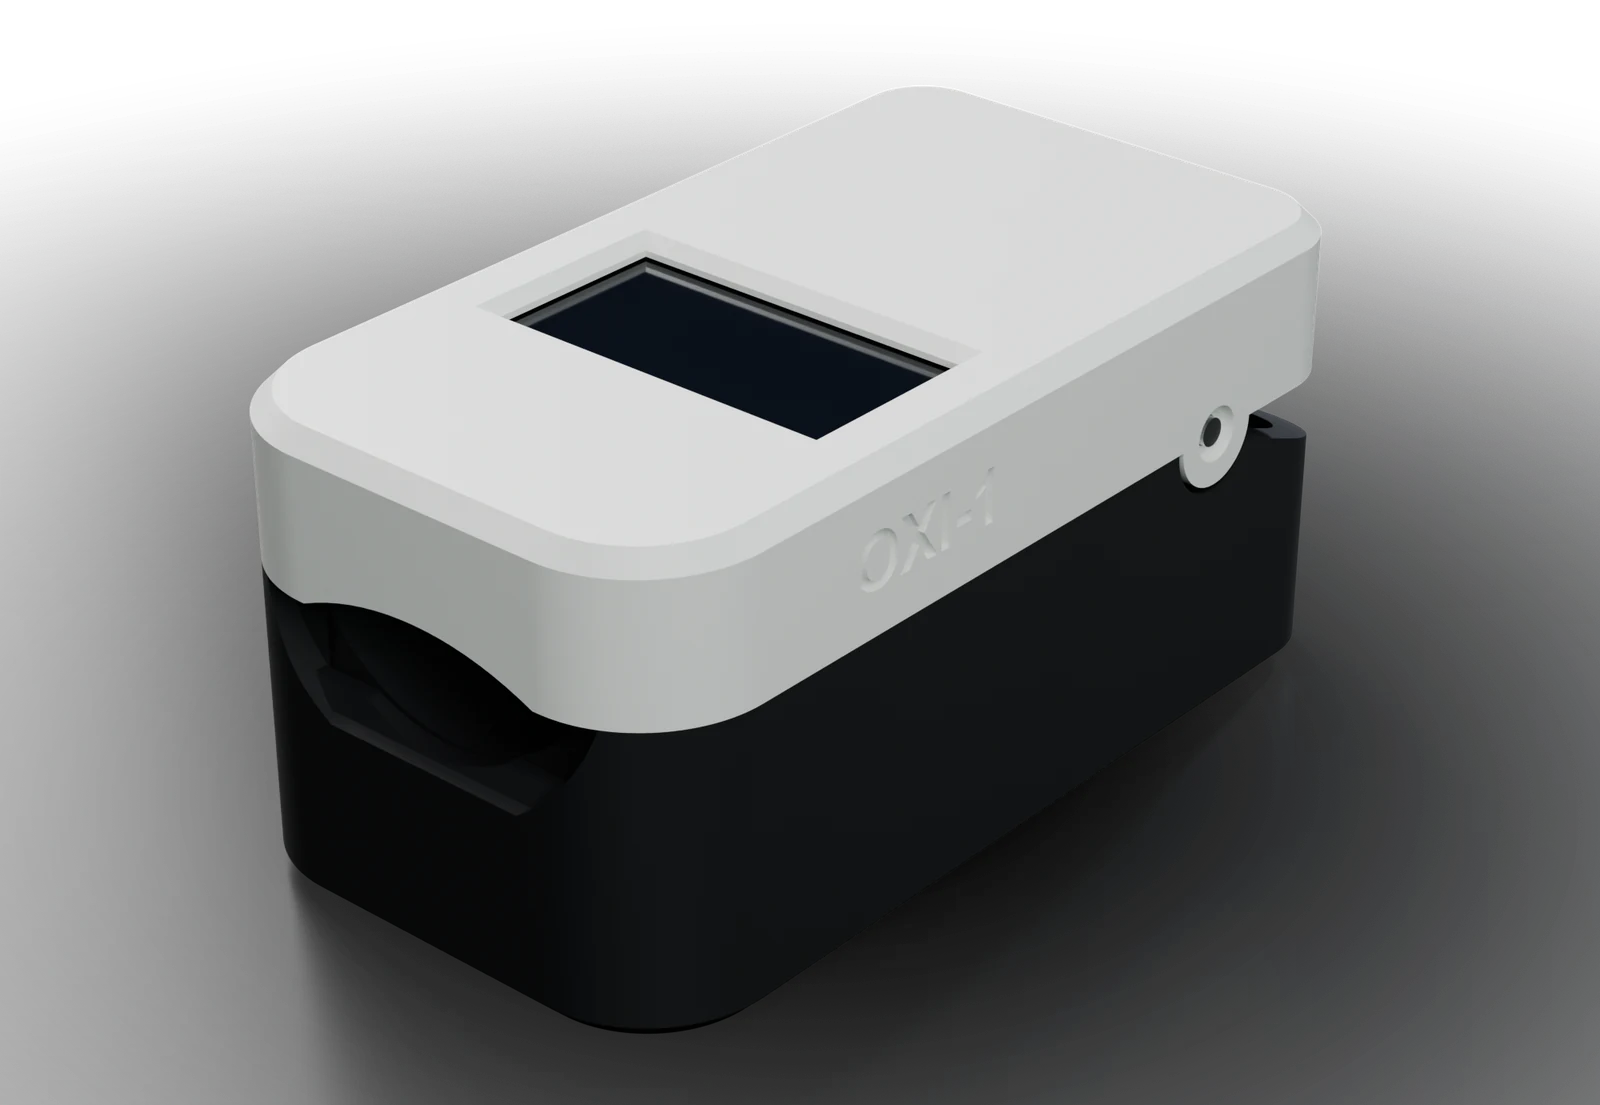
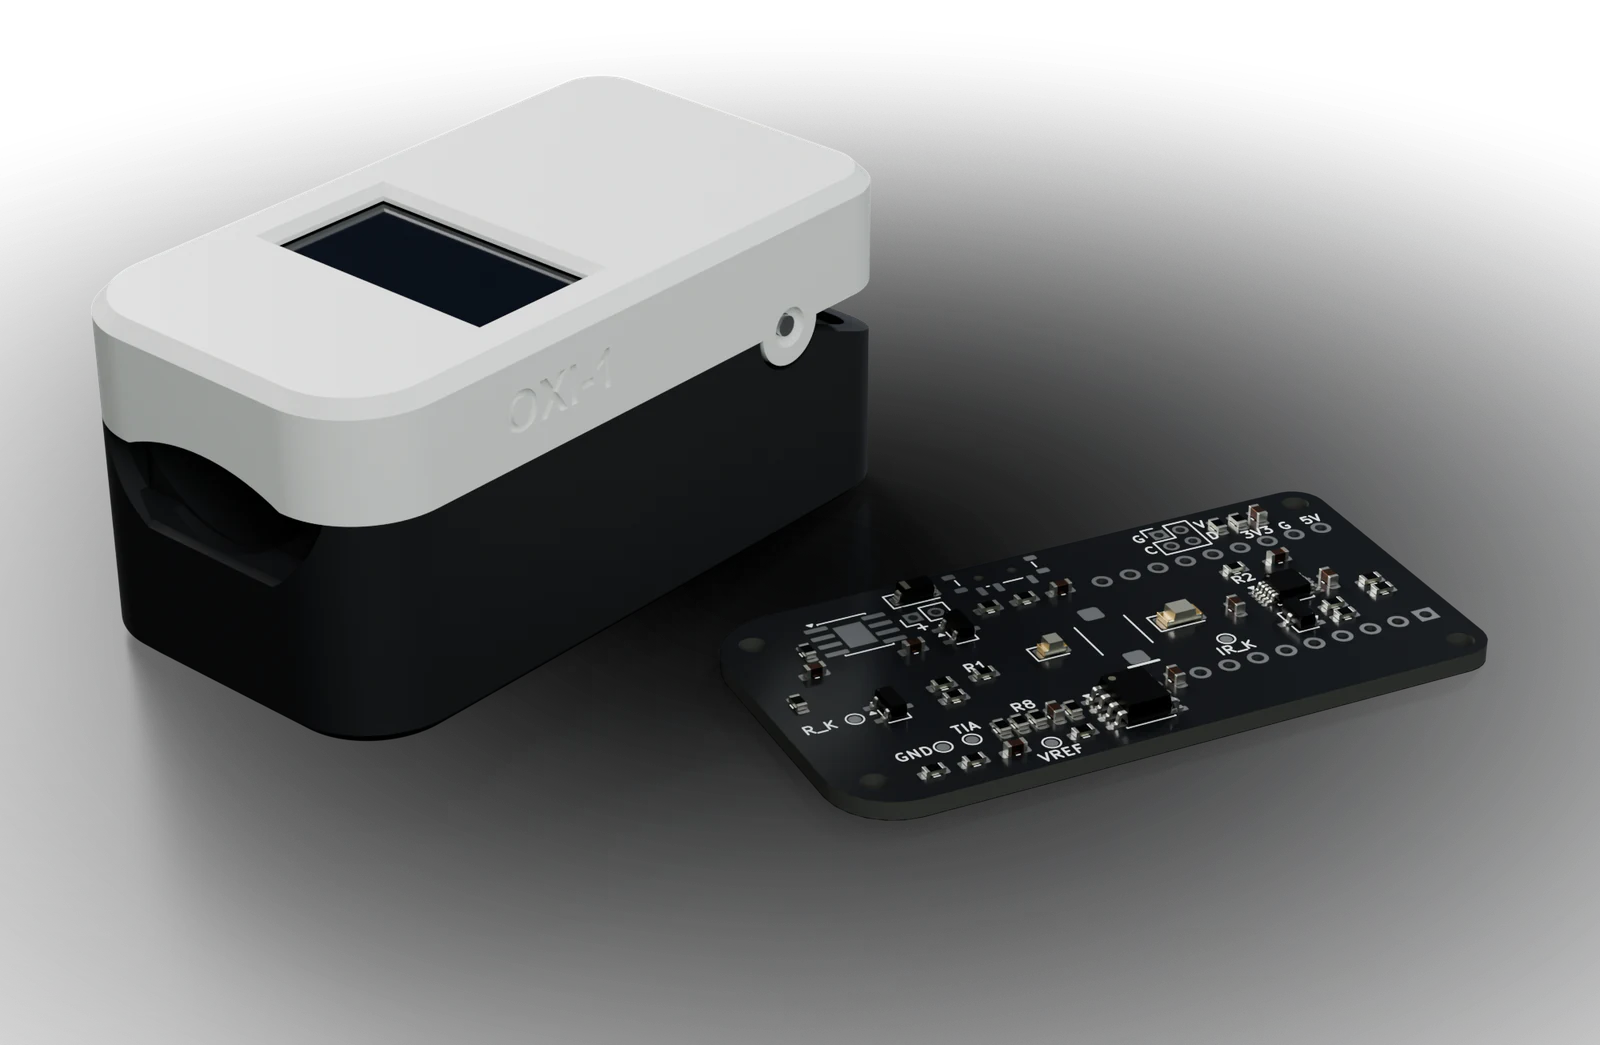
OXI-1 hero: the board lies beside the closed shell; caption and alt updated

diff --git a/index.html b/index.html
@@ -312,7 +312,7 @@
         <div><dt>Test</dt><dd>Finger on the bed, a live pulse trace on the display and SpO2 within 3 points of a fingertip oximeter read at the same time, for 60 s on film, by 30 November 2026</dd></div>
       </dl>
       <div class="work__figs">
-        <figure class="fig fig--render"><div class="fig__in"><img src="assets/img/oxi_hero.webp" width="1600" height="1105" alt="Render on a black studio floor of a small fingertip oximeter clip: a white printed lid with a rectangular display window and OXI-1 on its side, over a matte black lower shell with the finger opening at the front and a hinge pin at the back" loading="lazy" decoding="async"></div><figcaption>The unit as drawn, closed: 60 x 33 x 29 mm, white lid over a black tub, the finger goes in at the front. Rendered from the part files and the routed board; nothing printed or ordered.</figcaption></figure>
+        <figure class="fig fig--render"><div class="fig__in"><img src="assets/img/oxi_hero.webp" width="1600" height="1045" alt="Render on a black studio floor of a small fingertip oximeter clip beside its bare circuit board: a white printed lid with a rectangular display window and OXI-1 on its side, over a matte black lower shell with the finger opening at the front and a hinge pin at the back; in front of it the black 55 by 28 mm two-layer board lies flat, components up, with the sensor window, the amplifier and ADC and a row of labelled test pads" loading="lazy" decoding="async"></div><figcaption>The unit as drawn, closed, with the board it is built around: 60 x 33 x 29 mm shell, white lid over a black tub, the finger goes in at the front; the 55 x 28 mm board carries the optics, the front end and the ADC on top, and the ESP32-S3 module plugs in underneath. Rendered from the part files and the routed board; nothing printed or ordered.</figcaption></figure>
         <figure class="fig fig--render"><div class="fig__in"><img src="assets/img/oxi_exploded.webp" width="1600" height="1024" alt="Exploded render of the same oximeter with its parts lifted along one vertical line: the white lid with its display, the black finger pad, the black finger bed on its screws, the black circuit board with its parts facing up, a pen spring and a long steel hinge pin to the side, and the black tub with a pouch cell inside and four screws below" loading="lazy" decoding="async"></div><figcaption>Every part on its axis: lid and display, finger pad, finger bed with the light walls, the 55 x 28 mm board with the optics facing up and the ESP32-S3 module under it, the pouch cell in the tub, the pen spring and the filament hinge pin.</figcaption></figure>
       </div>
     </div>
